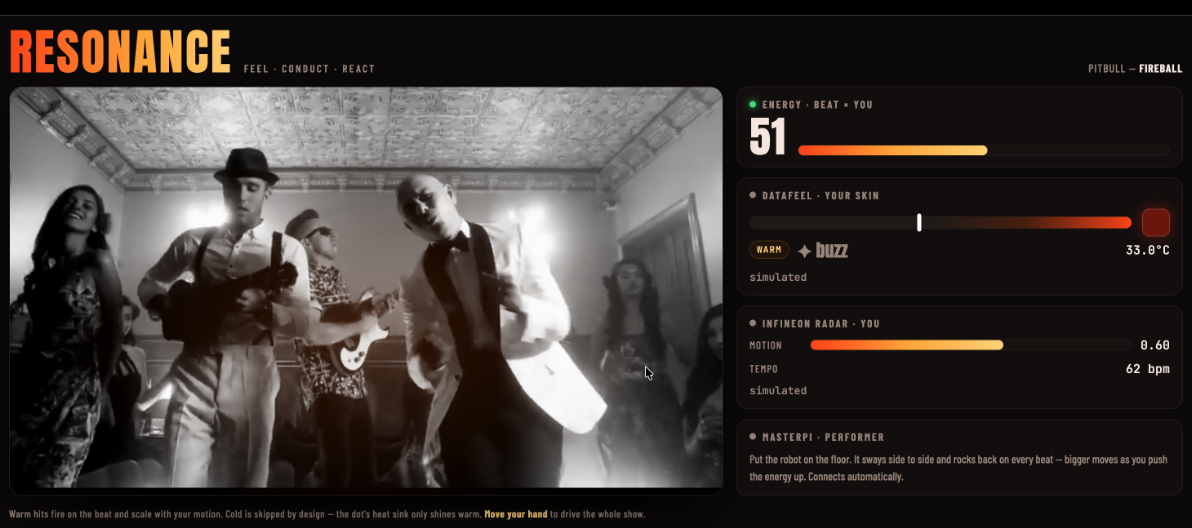
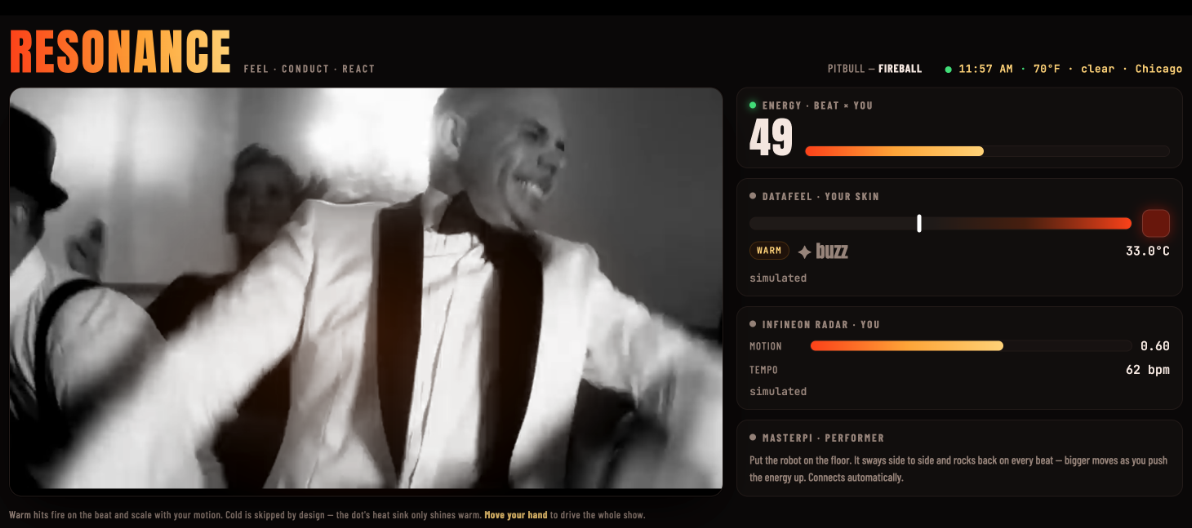
Live weather+clock ticker (Bright Data), credits section, hero with ticker
🤖 Generated with [Claude Code](https://claude.com/claude-code)

diff --git a/resonance.html b/resonance.html
@@ -29,6 +29,10 @@
   .top .sub{color:var(--muted);text-transform:uppercase;letter-spacing:.18em;font-weight:600;font-size:13px}
   .track{margin-left:auto;color:var(--muted);font-size:14px;letter-spacing:.06em}
   .track b{color:var(--fg)}
+  .live-now{margin-left:14px;color:var(--muted);font-size:13px;letter-spacing:.04em;font-family:"JetBrains Mono",monospace}
+  .live-now > span{color:var(--ember)}
+  .live-now::before{content:"";}
+  #liveNow{color:var(--go)}
 
   .grid{display:grid;grid-template-columns:1.6fr 1fr;gap:16px}
   @media (max-width:760px){.grid{grid-template-columns:1fr}}
@@ -89,6 +93,7 @@
     <h1>RESONANCE</h1>
     <span class="sub">feel · conduct · react</span>
     <span class="track">PITBULL — <b>FIREBALL</b></span>
+    <span class="live-now" id="liveNow" title="live via Bright Data">● <span id="clock">--:--</span> · <span id="wx">…</span></span>
   </div>
 
   <div class="grid">
@@ -184,8 +189,15 @@
   let beatFade = 0;
 
   const es = new EventSource('/events');
+  setInterval(() => { const d=new Date();
+    document.getElementById('clock').textContent =
+      d.toLocaleTimeString([], {hour:'2-digit', minute:'2-digit'}); }, 1000);
+
   es.onmessage = ev => {
     const s = JSON.parse(ev.data);
+    const wx = s.weather || {};
+    document.getElementById('wx').textContent =
+      (wx.temp_f!=null ? wx.temp_f+'°F · '+wx.condition+' · '+wx.city : 'weather offline');
 
     // energy
     $('masterNum').textContent = Math.round(s.master*100);

diff --git a/resonance.py b/resonance.py
@@ -29,6 +29,7 @@ state = {                                   # everything the dashboard shows, up
     "skin": 0.0, "led": [0, 0, 0], "buzz": False, "thermal": 0.0,
     "motion": 0.0, "hand": 0.0, "bpm": 0.0, "radar_status": "—",
     "dot_status": "—", "robot": "not connected",
+    "weather": {"city": "…", "temp_f": None, "condition": "…", "via": ""},
 }
 play = {"t": 0.0, "wall": time.time(), "playing": False}
 ctl = {"stopped": False}                    # hard stop: dot off, robot halted
@@ -42,7 +43,7 @@ def now_t():
 
 # ---------------------------------------------------------------- control loop
 
-def control_loop(timeline, dots, radar, robot, args):
+def control_loop(timeline, dots, radar, robot, live, args):
     grid = timeline["grid_hz"]
     warmth, energy, beats = timeline["warmth"], timeline["energy"], timeline["beats"]
     state["bpm"] = timeline["bpm"]
@@ -123,6 +124,7 @@ def control_loop(timeline, dots, radar, robot, args):
                 robot.stop()                                     # paused -> hold still
             state["robot"] = robot.status
 
+        state["weather"] = live.data
         push_event(dict(state))
         time.sleep(0.05)
 
@@ -348,7 +350,9 @@ def main():
     robot = Robot(args.robot_host, wheels=args.wheels) if args.robot else None
     if robot: print(f"[robot] connecting to {args.robot_host} (wheels={'on' if args.wheels else 'off'})")
 
-    threading.Thread(target=control_loop, args=(tl, dots, radar, robot, args), daemon=True).start()
+    import realtime
+    live = realtime.Live()
+    threading.Thread(target=control_loop, args=(tl, dots, radar, robot, live, args), daemon=True).start()
     srv = ThreadingHTTPServer(("127.0.0.1", PORT), Handler)
     print(f"\n  RESONANCE ready →  http://localhost:{PORT}\n  (put the DataFeel dot on your wrist; move your hand near the radar)\n")
     try:

diff --git a/README.md b/README.md
@@ -69,6 +69,7 @@ flowchart LR
 - **Conduct with your hand** — contactless 60 GHz radar reads your motion; raise the energy and everything responds.
 - **A dancing robot** — a MasterPi strafes to the beat over Wi-Fi, with auto-reconnect and a hard **STOP**.
 - **Live VJ dashboard** — every device's readings stream to the browser over Server-Sent Events.
+- **Real-time context** — a live clock + local weather ticker (current temperature & conditions, fetched via **Bright Data**) in the header.
 - **One-command launch** — `./run_internet.sh` (feel + conduct) or `./run_robot.sh` (add the robot).
 
 ---
@@ -111,6 +112,27 @@ Open **http://localhost:8777**, click **Start**, wear the dot, move your hand.
 - The MasterPi's "Wi-Fi kept dropping" — it was actually a `bruno/robot_server.py` service **pegging the Pi's CPU**, starving the network stack. Ping worked, SSH timed out. Killing it fixed everything.
 - The robot wouldn't move on USB-C: the drive motors **brown out the Pi** — they need the battery.
 - One DataFeel dot can't stay cold — the Peltier saturates its tiny heat sink in ~15 s. So RESONANCE is **warm-only**, fired as short hits that let the sink recover.
+
+---
+
+## 🙏 Credits & starting points
+
+**Hardware + their SDKs** (the device drivers build on these):
+- **DataFeel Dot** — [DataFeel/devkit-samples](https://github.com/DataFeel/devkit-samples) (Python SDK for heat/LED/vibration over Modbus).
+- **Infineon XENSIV BGT60TR13C** — Infineon Radar Development Kit SDK (`ifxradarsdk`) for the 60 GHz FMCW radar.
+- **Hiwonder MasterPi** — Hiwonder's on-robot SDK (`common.mecanum`, `ros_robot_controller_sdk`) for the wheels/arm.
+
+**APIs & libraries:**
+- **Bright Data** — proxy path for the live weather fetch · **Open-Meteo** + **ip-api.com** — weather & geolocation.
+- **yt-dlp** — fetch the music video · **OpenCV / NumPy / SciPy** — scene colour, radar DSP, and audio beat detection.
+- Python `http.server` + Server-Sent Events for the dashboard.
+
+**Content:** the demo song is **Pitbull — "Fireball"** (YouTube), used as playback material.
+
+**Written for this project (new work):** `resonance.py`, `resonance.html`, `analyze.py`, the device
+drivers in `thermoscene.py` (`SceneReader`, `RadarBreath`, `Dots`), the dance code
+(`dance_daemon.py`, `robot_dance.py`), and `realtime.py` — i.e. all the glue that makes the three
+devices move together to the music.
 
 ---
 
